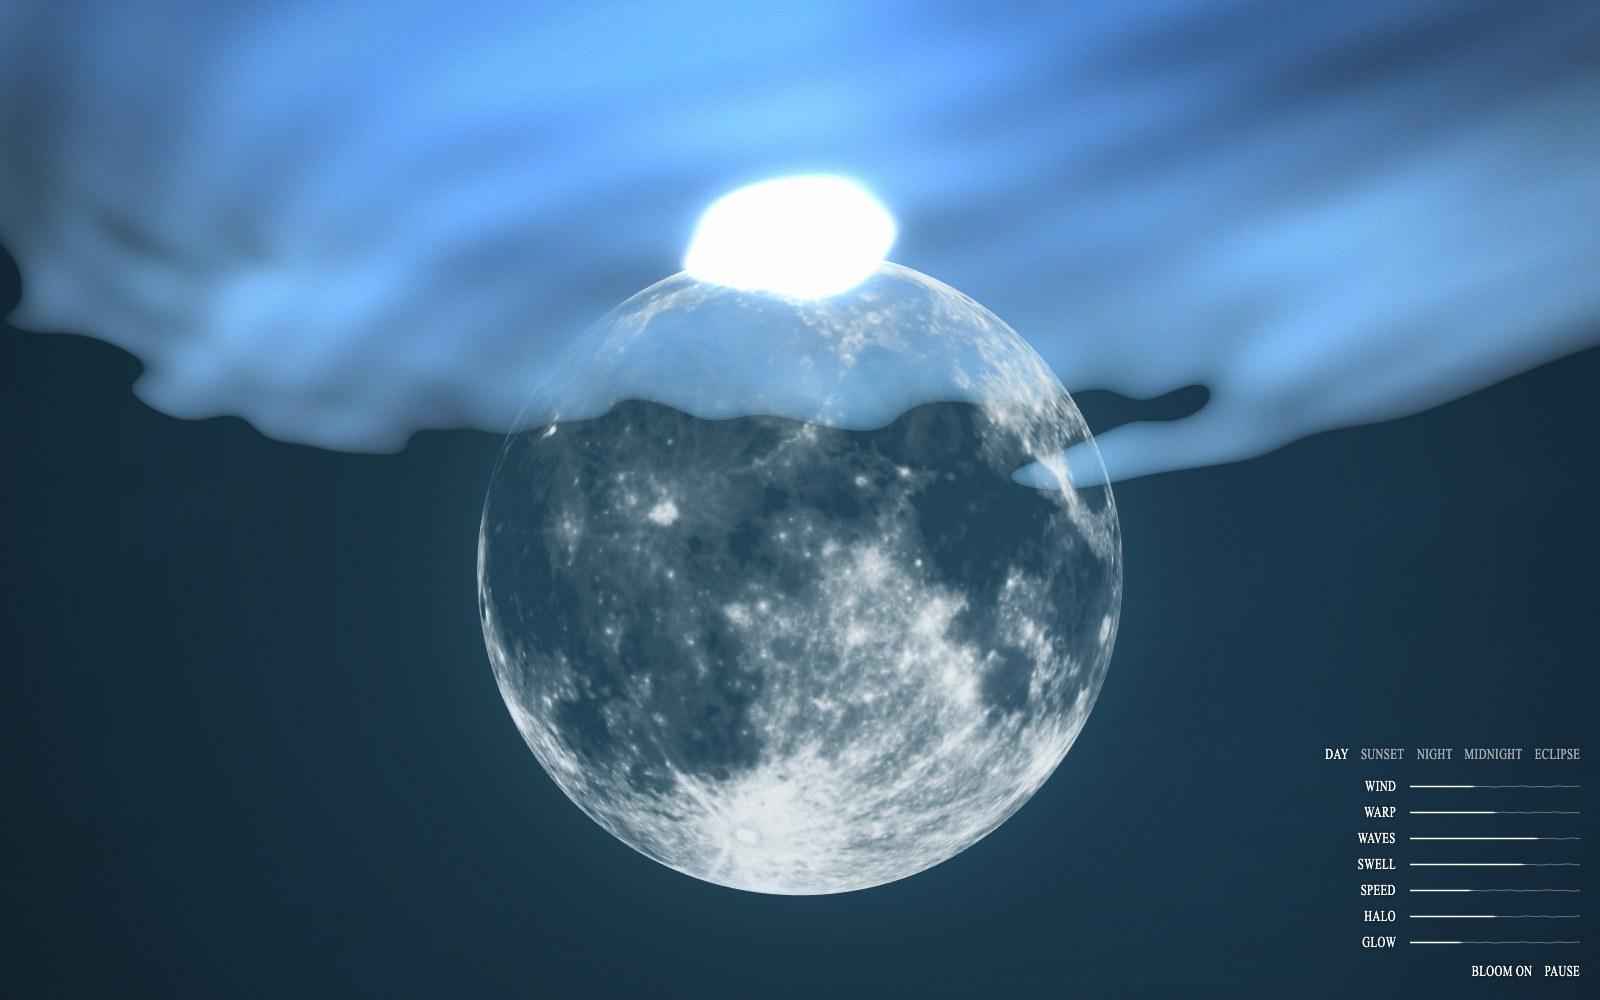
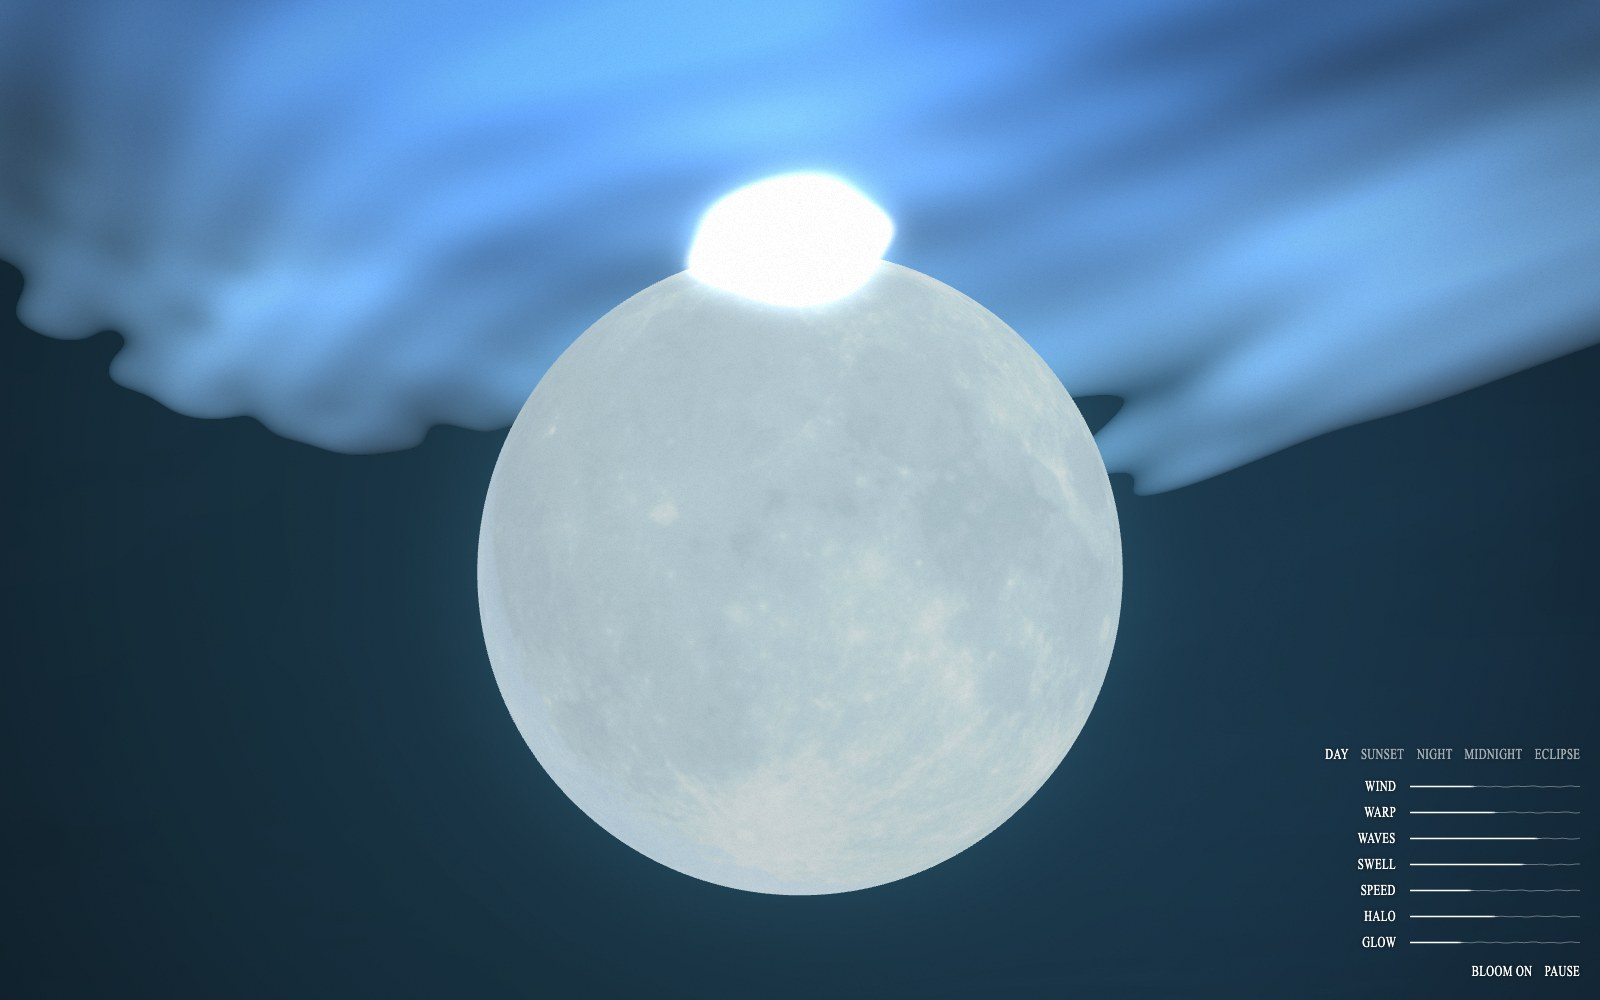
Solid moon in every sky; gentler white wash by day

diff --git a/public/games/flymetothemoon/index.html b/public/games/flymetothemoon/index.html
@@ -783,12 +783,12 @@
       deepL: [0.09,0.19,0.25], deepR: [0.10,0.21,0.29], upLight: [0.05,0.13,0.16],
       skyLow: [0.50,0.70,0.88], skyHigh: [0.28,0.52,0.85], glowA: [0.10,0.10,0.08], glowB: [0.18,0.18,0.15],
       halo: [0.04,0.075,0.085], image: [1.0,1.0,1.0], bloom: [0.85,0.92,1.0],
-      moonMul: [1,1,1], moonMix: [0.97,0.98,1.0,0.78], moonDark: [0.20,0.30,0.36], moonSee: 1.0, relief: 0 },
+      moonMul: [1,1,1], moonMix: [0.97,0.98,1.0,0.55], moonDark: [0.20,0.30,0.36], moonSee: 0, relief: 0 },
     { name: 'Sunset',
       deepL: [0.14,0.07,0.05], deepR: [0.10,0.06,0.08], upLight: [0.10,0.05,0.02],
       skyLow: [0.92,0.45,0.18], skyHigh: [0.40,0.24,0.36], glowA: [0.30,0.16,0.06], glowB: [0.40,0.28,0.14],
       halo: [0.30,0.16,0.10], image: [1.0,0.86,0.62], bloom: [1.0,0.72,0.45],
-      moonMul: [1.2,0.9,0.72], moonMix: [0.98,0.78,0.58,0.45], moonDark: [0.14,0.06,0.05], moonSee: 0.1, relief: 0.25 },
+      moonMul: [1.2,0.9,0.72], moonMix: [0.98,0.78,0.58,0.45], moonDark: [0.14,0.06,0.05], moonSee: 0, relief: 0.25 },
     { name: 'Night',
       deepL: [0.098,0.075,0.075], deepR: [0.102,0.098,0.133], upLight: [0.0,0.03,0.06],
       skyLow: [0.07,0.13,0.22], skyHigh: [0.13,0.25,0.40], glowA: [0.16,0.28,0.38], glowB: [0.25,0.35,0.45],

diff --git a/README.md b/README.md
@@ -56,9 +56,9 @@ Drag the moon to spin it. Let go mid-drag to throw it; press on it while it's tu
 
 ### The sky
 
-Five sky presets, at the top of the controls, set the time of day. Every colour in the scene comes from one palette: the water on both sides, the light falling from above, the sky seen through the surface and the glow around the moon in it, the reflection and its bloom, the halo, and the moon's own tint, shadow, see-through and crater relief. Pressing a preset fades every colour across to the new look over about a second.
+Five sky presets, at the top of the controls, set the time of day. Every colour in the scene comes from one palette: the water on both sides, the light falling from above, the sky seen through the surface and the glow around the moon in it, the reflection and its bloom, the halo, and the moon's own tint, shadow and crater relief. Pressing a preset fades every colour across to the new look over about a second.
 
-**Day:** a bright blue sky through the surface and teal water. The moon looks the way it does in daylight: it's washed almost white, its darkness maps straight to transparency (the dark seas vanish into the water and sky behind, the bright highlands stay solid), and the glow around it all but disappears.
+**Day:** a bright blue sky through the surface and teal water. The moon is washed almost white, and the glow around it all but disappears.
 
 ![Day](docs/screenshots/12-sky-day.jpg)
 
